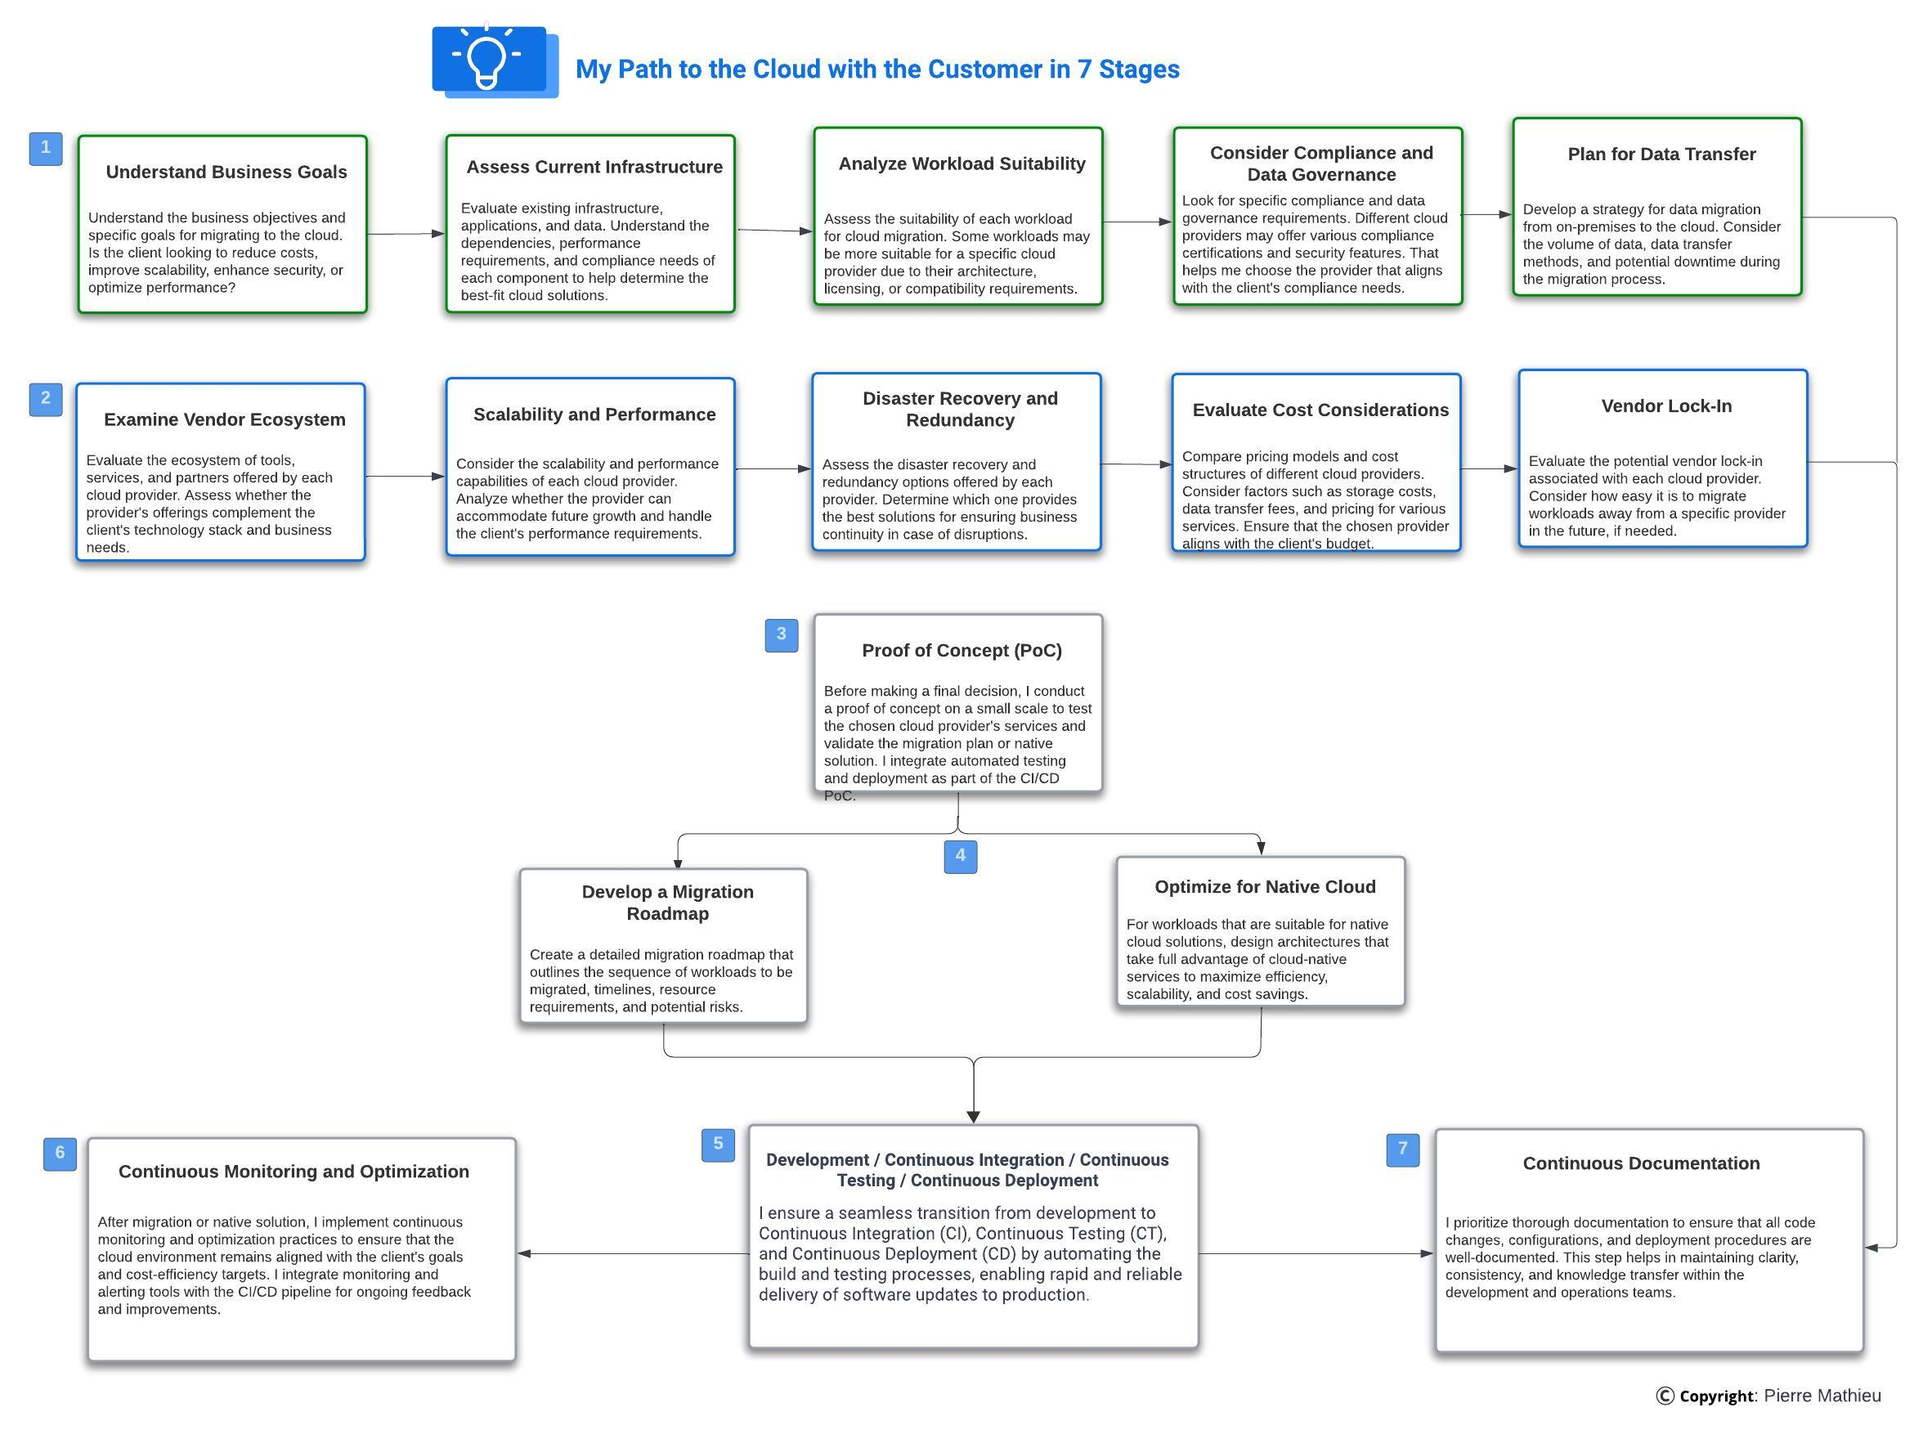
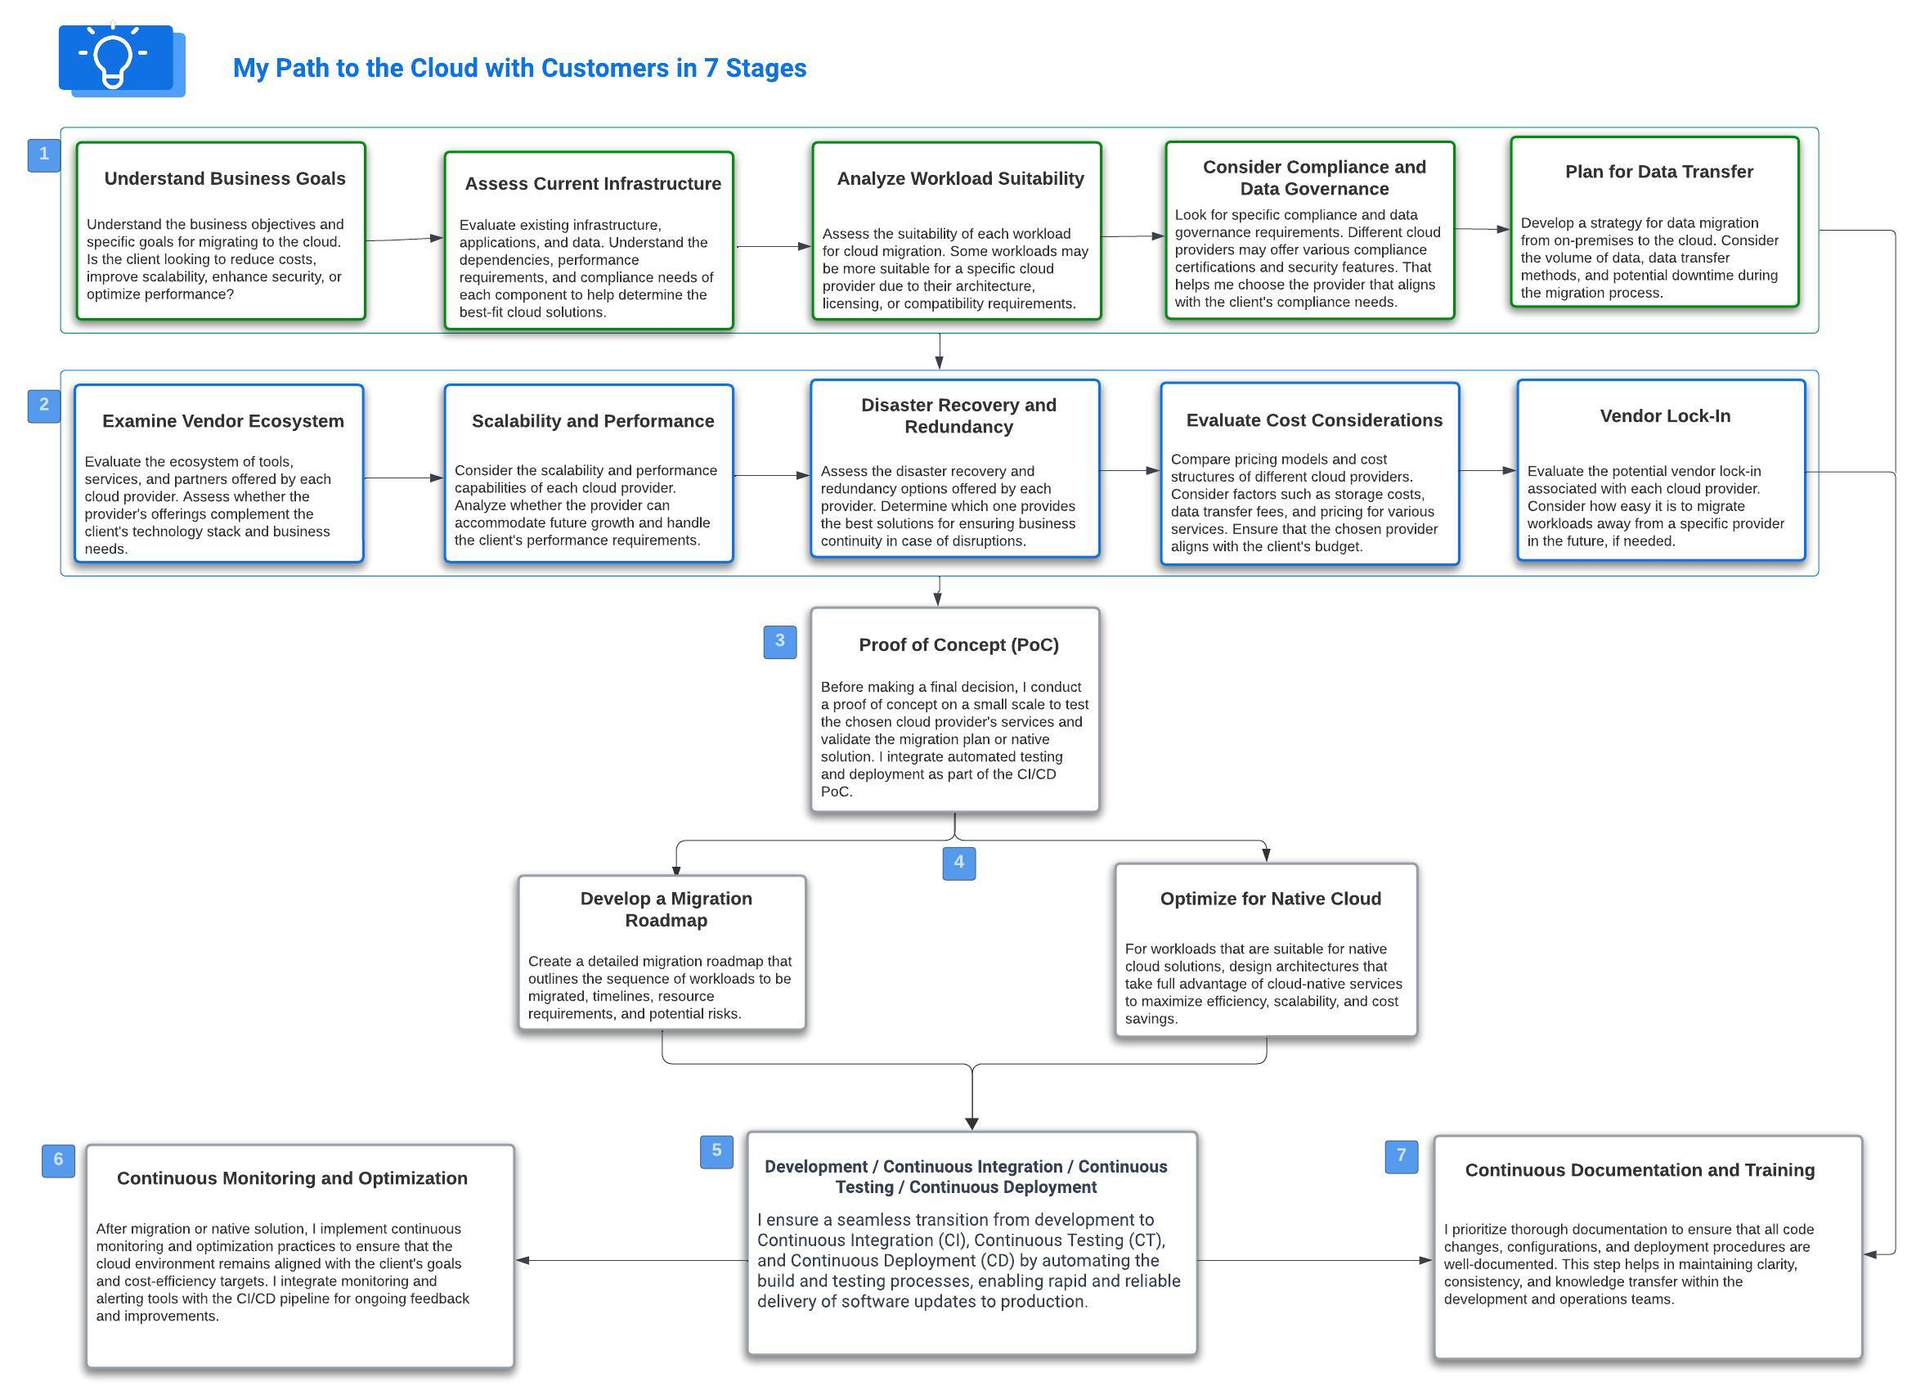
azure-lift-n-shift-with-improvement1 cloud-journey glacier-to-standard

Changed region(s): [[0.0, 0.0, 0.9924, 0.9941], [0.0, 0.7767, 0.2791, 0.9941]]

diff --git a/glacier-to-standard/README.md b/glacier-to-standard/README.md
@@ -1,0 +1,92 @@
+
+# S3 Glacier to Standard Transfer
+# Introduction
+The transition from Amazon S3 Glacier to Standard storage class for log analysis is driven by the need for more immediate access and faster retrieval times of log data. S3 Glacier is designed for long-term archival with a trade-off of lower cost at the expense of longer retrieval times. However, log analysis often requires quick access to historical data for real-time insights, troubleshooting, or compliance purposes.
+
+# Project Overview
+- The task at hand aims to develop a serverless Python-based solution that facilitates the transfer of data from S3 Glacier to the Standard storage class. This process allows for the specification of a datetime range based on the last modified time of the objects that need to be restored from Glacier. To accomplish this, the solution requires several components and leverages various AWS services.
+
+- The following AWS services are utilized:
+
+  - S3: The S3 service is used to store the objects and contains the bucket from which the objects are to be restored.
+
+  - API Gateway: API Gateway resources are employed, specifically the `/glacier-to-standard` endpoint, which acts as a trigger for initiating the restoration process.
+
+  - Lambda Functions: Two lambda functions are utilized in the solution:
+
+    - a. `glacier-to-standard-initiator`: This function is responsible for initiating the restoration process. It takes parameters such as the S3 bucket name, a prefix to narrow down the search for objects, the retention period in days, and the email address of the requester, as below:
+        -  `bucket_name`: Name of the bucket.
+        -  `start_date` and `end_date`: Start and end datetimes for filtering objects based on the last modified time.
+        -  `bucket_prefix`: A prefix to narrow down the search for specific objects.
+        -  `retention_days`: The number of days to retain the restored objects.
+        -  `request_owner`: The email address of the requester.
+
+    - b. `glacier-to-standard-copier`: This function is responsible for copying the restored objects from Glacier to the Standard storage class. It retrieves the necessary information from the SQS queue.
+
+  - Eventbridge Rule: An Eventbridge Rule named `GlacierToStandardScheduleRule` is employed to schedule a cron job that triggers the restoration process after a specified time. This ensures the process is automated.
+
+  - Secrets Manager: Secrets Manager is utilized to store the secrets such as SendGrid API key.
+
+  - DynamoDB: Two DynamoDB tables are utilized in the solution:
+
+    - a. `glacier_object_restore_requests`: This table stores information about the restore requests, including the request status. It gets filled by the `glacier-to-standard-copier` function and updated by the `glacier-to-standard-copier` function.
+
+    - b. `glacier_object_restore_objects`: The table holds data regarding S3 objects. It gets filled by the `glacier-to-standard-copier` function and updated by the `glacier-to-standard-copier` function.
+
+By leveraging these AWS services and implementing the two lambda functions, the solution facilitates the seamless transfer of data from S3 Glacier to the Standard storage class based on the specified datetime range.
+
+
+## Architecture
+<img src="glacier-to-standard.jpeg" alt="alt text" width="500"/><br>
+## The process involving the two lambda functions, "glacier-to-standard-initiator" and "glacier-to-standard-copier," can be described in full detail as follows:
+
+### 1. Lambda 1 - glacier-to-standard-initiator:
+- Step 0: An external action triggers the API Gateway (APIG) to execute the "/glacier-to-standard" endpoint using the POST method. The API payload contains the following information:
+
+    {
+
+      "bucket_name": "logs-418321941424",
+
+      "bucket_prefix": "ServiceChangeRequestAccessLogs2020",
+
+      "start_date": "2020-07-24 06:00:00",
+
+      "end_date": "2020-07-24 07:00:00",
+
+      "retention_days": "1",
+
+      "requester_email": "pierremathieu@awsazureconsult.com
+    }
+
+
+##
+- Step 1: The API Gateway invokes the lambda function `glacier-to-standard-initiator`.
+
+- Step 2: `glacier-to-standard-initiator` reads the objects from the specified bucket name based on the given criteria to initiate the restore process for the objects.
+
+- Step 3: `glacier-to-standard-initiator` populates the `glacier_object_restore_objects` DynamoDB table with essential details about the S3 files, including their Object Keys and statuses.
+
+- Step 4: `glacier-to-standard-initiator` inserts the necessary information about the restore request, along with its status, into the DynamoDB table `glacier_object_restore_requests`.
+
+- Step 5: `glacier-to-standard-initiator` enables the event bridge rule `GlacierToStandardScheduleRule`. This ensures that the process will be triggered automatically after the specified time.
+
+- Step 6: `glacier-to-standard-initiator` notifies the requester about the process initiation by sending an email through SendGrid.rid.
+
+### 2. Lambda 2 - glacier-to-standard-copier:
+- Step 0: The hourly cron job associated with `GlacierToStandardScheduleRule` invokes the lambda function `glacier-to-standard-copier`. The process will proceed with the `Step 1` once the files are restored from the glacier and become ready to be copied to the standard bucket.
+
+- Step 1: The lambda function `glacier-to-standard-copier` retrieves essential information from the `glacier_object_restore_requests` table in a first-in-first-out (FIFO) manner. It obtains the payload of the oldest pending request, which serves as the criteria for copying the restored glacier objects.
+
+- Step 2: Before attempting to copy the objects to the standard storage, `glacier-to-standard-copier` queries the Object keys from the `glacier_object_restore_objects` table and verifies their restore status.
+
+- Step 3: `glacier-to-standard-copier` copies the restored objects into the standard bucket.
+
+- Step 4: `glacier-to-standard-copier` updates the DynamoDB table `glacier_object_restore_objects` with information about the copied objects.
+
+- Step 5: `glacier-to-standard-copier` updates the DynamoDB table `glacier_object_restore_requests` to reflect the progress and completion of the restore process.
+
+- Step 6: Using SendGrid, `glacier-to-standard-copier` sends an email to the requester to notify them of the completion of the process.
+
+<br><br>
+# Let's talk
+## Your organization could be encountering comparable challenges. Let's engage in a discussion. <br><a href="https://awsazureconsult.com">Visit my profile</a> or reach out via email at pierremathieu@awsazureconsult.com for further insights and information.

diff --git a/cloud-journey/README.md b/cloud-journey/README.md
@@ -1,0 +1,146 @@
+# Leveraging Cloud Best Practices: A Comprehensive Guide to Successful Cloud Projects
+
+## Introduction
+Embarking on cloud projects requires a strategic approach to ensure optimal outcomes aligned with business goals. This document highlights my experience leveraging key steps throughout various cloud projects with customers. Each step is meticulously executed to provide tangible benefits and results.
+
+<img src="cloud-journey.jpeg" alt="alt text" width="400"/>
+
+
+## 1. Understand Business Goals
+Understanding the unique objectives of each customer is foundational. By aligning cloud solutions with business goals, we ensure that the technology serves as an enabler for achieving organizational success.
+
+**Benefits:**
+ - Strategic alignment.
+ - Improved ROI.
+ - Enhanced business agility.
+## 2. Assess Current Infrastructure
+A thorough examination of existing infrastructure allows for a clear understanding of the starting point. Identifying strengths and weaknesses forms the basis for effective planning.
+
+**Benefits:**
+ - Informed decision-making.
+ - Reduced migration risks.
+ - Efficient resource allocation.
+
+## 3. Analyze Workload Suitability
+Determining which workloads are best suited for the cloud is crucial. This analysis guides the migration strategy, ensuring a seamless transition of applications and services.
+
+**Benefits:**
+
+- Optimal workload performance.
+- Cost-effective resource utilization.
+- Enhanced scalability.
+## 4. Consider Compliance and Data Governance
+Adhering to regulatory compliance and data governance standards is non-negotiable. This step ensures that data is handled securely and in accordance with legal requirements.
+
+**Benefits:**
+
+- Mitigated legal risks.
+- Improved data security.
+- Enhanced customer trust.
+## 5. Plan for Data Transfer
+Developing a robust plan for data transfer minimizes downtime and ensures the secure migration of data to the cloud environment.
+
+**Benefits:**
+
+- Reduced downtime.
+- Data integrity assurance.
+- Smooth migration process.
+## 6. Examine Vendor Ecosystem
+Evaluating the cloud vendor's ecosystem ensures compatibility with existing tools and services, promoting a seamless integration experience.
+
+**Benefits:**
+
+- Interoperability.
+- Streamlined operations.
+- Enhanced efficiency.
+## 7. Scalability and Performance
+Designing for scalability and optimal performance guarantees that the cloud infrastructure can adapt to changing demands and deliver consistent, high-quality services.
+
+**Benefits:**:
+
+- Responsive applications.
+- Efficient resource utilization.
+- Cost savings during periods of low demand.
+## 8. Disaster Recovery and Redundancy
+Implementing robust disaster recovery and redundancy measures safeguards against data loss and minimizes service disruptions.
+
+**Benefits:**
+
+- Business continuity.
+- Reduced downtime.
+- Enhanced reliability.
+## 9. Evaluate Cost Considerations
+A meticulous evaluation of costs ensures budget adherence and maximizes the cost-effectiveness of cloud resources.
+
+**Benefits:**
+
+- Cost optimization.
+- Improved financial predictability.
+- Enhanced resource allocation efficiency.
+## 10. Vendor Lock-In
+Mitigating the risks associated with vendor lock-in allows for flexibility and freedom of choice in the long term.
+
+**Benefits:**
+
+- Enhanced flexibility.
+- Mitigated dependency risks.
+- Cost-effective transition options.
+## 11. Proof of Concept (PoC)
+Executing a proof of concept validates the viability of the chosen cloud solutions, offering a low-risk testing ground before full-scale implementation.
+
+**Benefits:**
+
+- Risk mitigation.
+- Informed decision-making.
+- Enhanced solution validation.
+## 12. Develop a Migration Roadmap
+A detailed migration roadmap provides a structured plan for implementation, minimizing disruptions and ensuring a smooth transition.
+
+Benefits:
+
+- Strategic alignment.
+- Reduced implementation risks.
+- Enhanced project management.
+## 13. Optimize for Native Cloud
+Optimizing applications for native cloud services ensures maximum performance and takes full advantage of cloud capabilities.
+
+**Benefits:**
+
+- Improved application performance.
+- Enhanced scalability.
+- Cost-efficient resource utilization.
+## 14. Continuous Monitoring and Optimization
+Implementing continuous monitoring and optimization practices ensures ongoing efficiency, cost-effectiveness, and responsiveness.
+
+**Benefits:**
+
+- Proactive issue resolution.
+- Cost savings.
+- Enhanced performance.
+## 15. Development / Continuous Integration / Continuous Testing / Continuous Deployment
+Adopting a continuous development and deployment approach promotes agility and ensures that changes are implemented seamlessly.
+
+**Benefits:**
+
+- Faster time to market.
+- Improved collaboration.
+- Reduced manual errors.
+## 16. Continuous Documentation and Training
+Maintaining up-to-date documentation and providing continuous training ensures that teams remain well-equipped to manage and optimize cloud resources effectively.
+
+**Benefits:**
+
+## Knowledge retention.
+- Enhanced team proficiency.
+- Smooth adaptation to evolving cloud environments.
+## Conclusion
+Leveraging these steps throughout cloud projects has consistently delivered successful outcomes, aligning technology with business objectives, ensuring security and compliance, optimizing costs, and fostering a culture of continuous improvement. This approach positions organizations to thrive in the dynamic landscape of cloud computing.
+
+
+
+
+
+
+<br><br>
+# Let's talk
+## Your organization could be encountering comparable challenges. Let's engage in a discussion. <br><a href="https://awsazureconsult.com">Visit my profile</a> or reach out via email at pierremathieu@awsazureconsult.com for further insights and information.

diff --git a/azure-lift-n-shift-with-improvement1/README.md b/azure-lift-n-shift-with-improvement1/README.md
@@ -1,0 +1,69 @@
+# Azure Migration and Optimization Project: A Comprehensive Overview
+
+
+## Introduction
+This document provides a detailed overview of a successful Azure migration and optimization project that I led, showcasing improvements achieved through the strategic implementation of Azure services. The project aimed to enhance performance, scalability, and overall efficiency by leveraging a combination of Azure services, including Redis, Azure Functions, AKS (Azure Kubernetes Service), Application Gateway, API Manager, Virtual Machines (VMs), SQL Managed Instances (SQL MI), and Azure Monitor.<br>
+<img src="azure-lift-n-shift-with-improvement1.jpeg" alt="alt text" width="500"/>
+
+## Project Background
+**Objective:** <br>
+The primary objective of the project was to migrate and optimize existing workloads to Azure, ensuring a seamless transition while capitalizing on the advanced features of Azure services.
+
+**Scope:** <br>
+The scope included modernizing applications, improving data management, optimizing infrastructure, and enhancing overall system performance.
+
+## Key Azure Services Implemented:
+**1. Azure Redis Cache:** <br>
+Implemented Azure Redis Cache to enhance data caching and retrieval, optimizing application performance by reducing latency and improving scalability.
+
+**2. Azure Functions:** <br>
+Leveraged serverless architecture with Azure Functions to enable event-driven, scalable, and cost-efficient execution of code, promoting agility and responsiveness in application development.
+
+**3. Azure Kubernetes Service (AKS):** <br>
+Utilized AKS for container orchestration, facilitating the deployment, scaling, and management of containerized applications with ease, streamlining the overall development and deployment process.
+
+**4. Application Gateway:** <br>
+Deployed Azure Application Gateway for efficient load balancing, SSL termination, and improved security, ensuring optimal performance and availability of applications.
+
+**5. Azure API Manager:** <br>
+Implemented Azure API Manager to centralize API management, ensuring security, scalability, and analytics for API consumption, thereby enhancing overall API governance.
+
+**6. Virtual Machines (VMs):** <br>
+Utilized Azure Virtual Machines to host specific workloads that required dedicated computing resources, ensuring flexibility and control over the underlying infrastructure.
+
+**7. SQL Managed Instances (SQL MI):** <br>
+Migrated on-premises databases to Azure SQL Managed Instances, benefiting from a fully managed relational database service with high availability and scalability.
+
+**8. Azure Monitor:** <br>
+Implemented Azure Monitor for comprehensive monitoring, diagnostics, and analytics, enabling proactive issue resolution, resource optimization, and enhanced overall system reliability.
+
+## Achievements and Improvements:
+**1. Enhanced Scalability:** <br>
+The adoption of Azure Functions and AKS facilitated automatic scaling, allowing the system to seamlessly handle varying workloads with improved efficiency.
+
+**2. Improved Application Performance:** <br>
+Azure Redis Cache significantly reduced data retrieval times, enhancing overall application responsiveness and user experience.
+
+**3. Cost Optimization:** <br>
+Leveraging serverless computing with Azure Functions and optimizing VM usage contributed to substantial cost savings, aligning resource consumption with actual demand.
+
+**4. Centralized API Management:** <br>
+The implementation of Azure API Manager streamlined API management, enhancing security, discoverability, and governance for all APIs.
+
+**5. Optimized Database Management:** <br>
+Migration to Azure SQL Managed Instances resulted in improved database performance, high availability, and reduced administrative overhead.
+
+**6. Comprehensive Monitoring and Analytics:** <br>
+Azure Monitor provided real-time insights into application and infrastructure performance, enabling proactive issue resolution and continuous optimization.
+
+**7. Increased System Reliability:** <br>
+The combination of Application Gateway, Azure Functions, and AKS contributed to increased system reliability, ensuring consistent and resilient service delivery.
+
+## onclusion
+The successful execution of this Azure migration and optimization project not only achieved seamless cloud adoption but also brought about significant improvements in scalability, performance, and cost-effectiveness. By strategically leveraging Azure services such as Redis, Azure Functions, AKS, Application Gateway, API Manager, VMs, SQL MI, and Azure Monitor, the project stands as a testament to the transformative impact of embracing cloud-native solutions on overall IT infrastructure and application landscapes.
+
+
+
+<br><br>
+# Let's talk
+## Your organization could be encountering comparable challenges. Let's engage in a discussion. <br><a href="https://awsazureconsult.com">Visit my profile</a> or reach out via email at pierremathieu@awsazureconsult.com for further insights and information.
